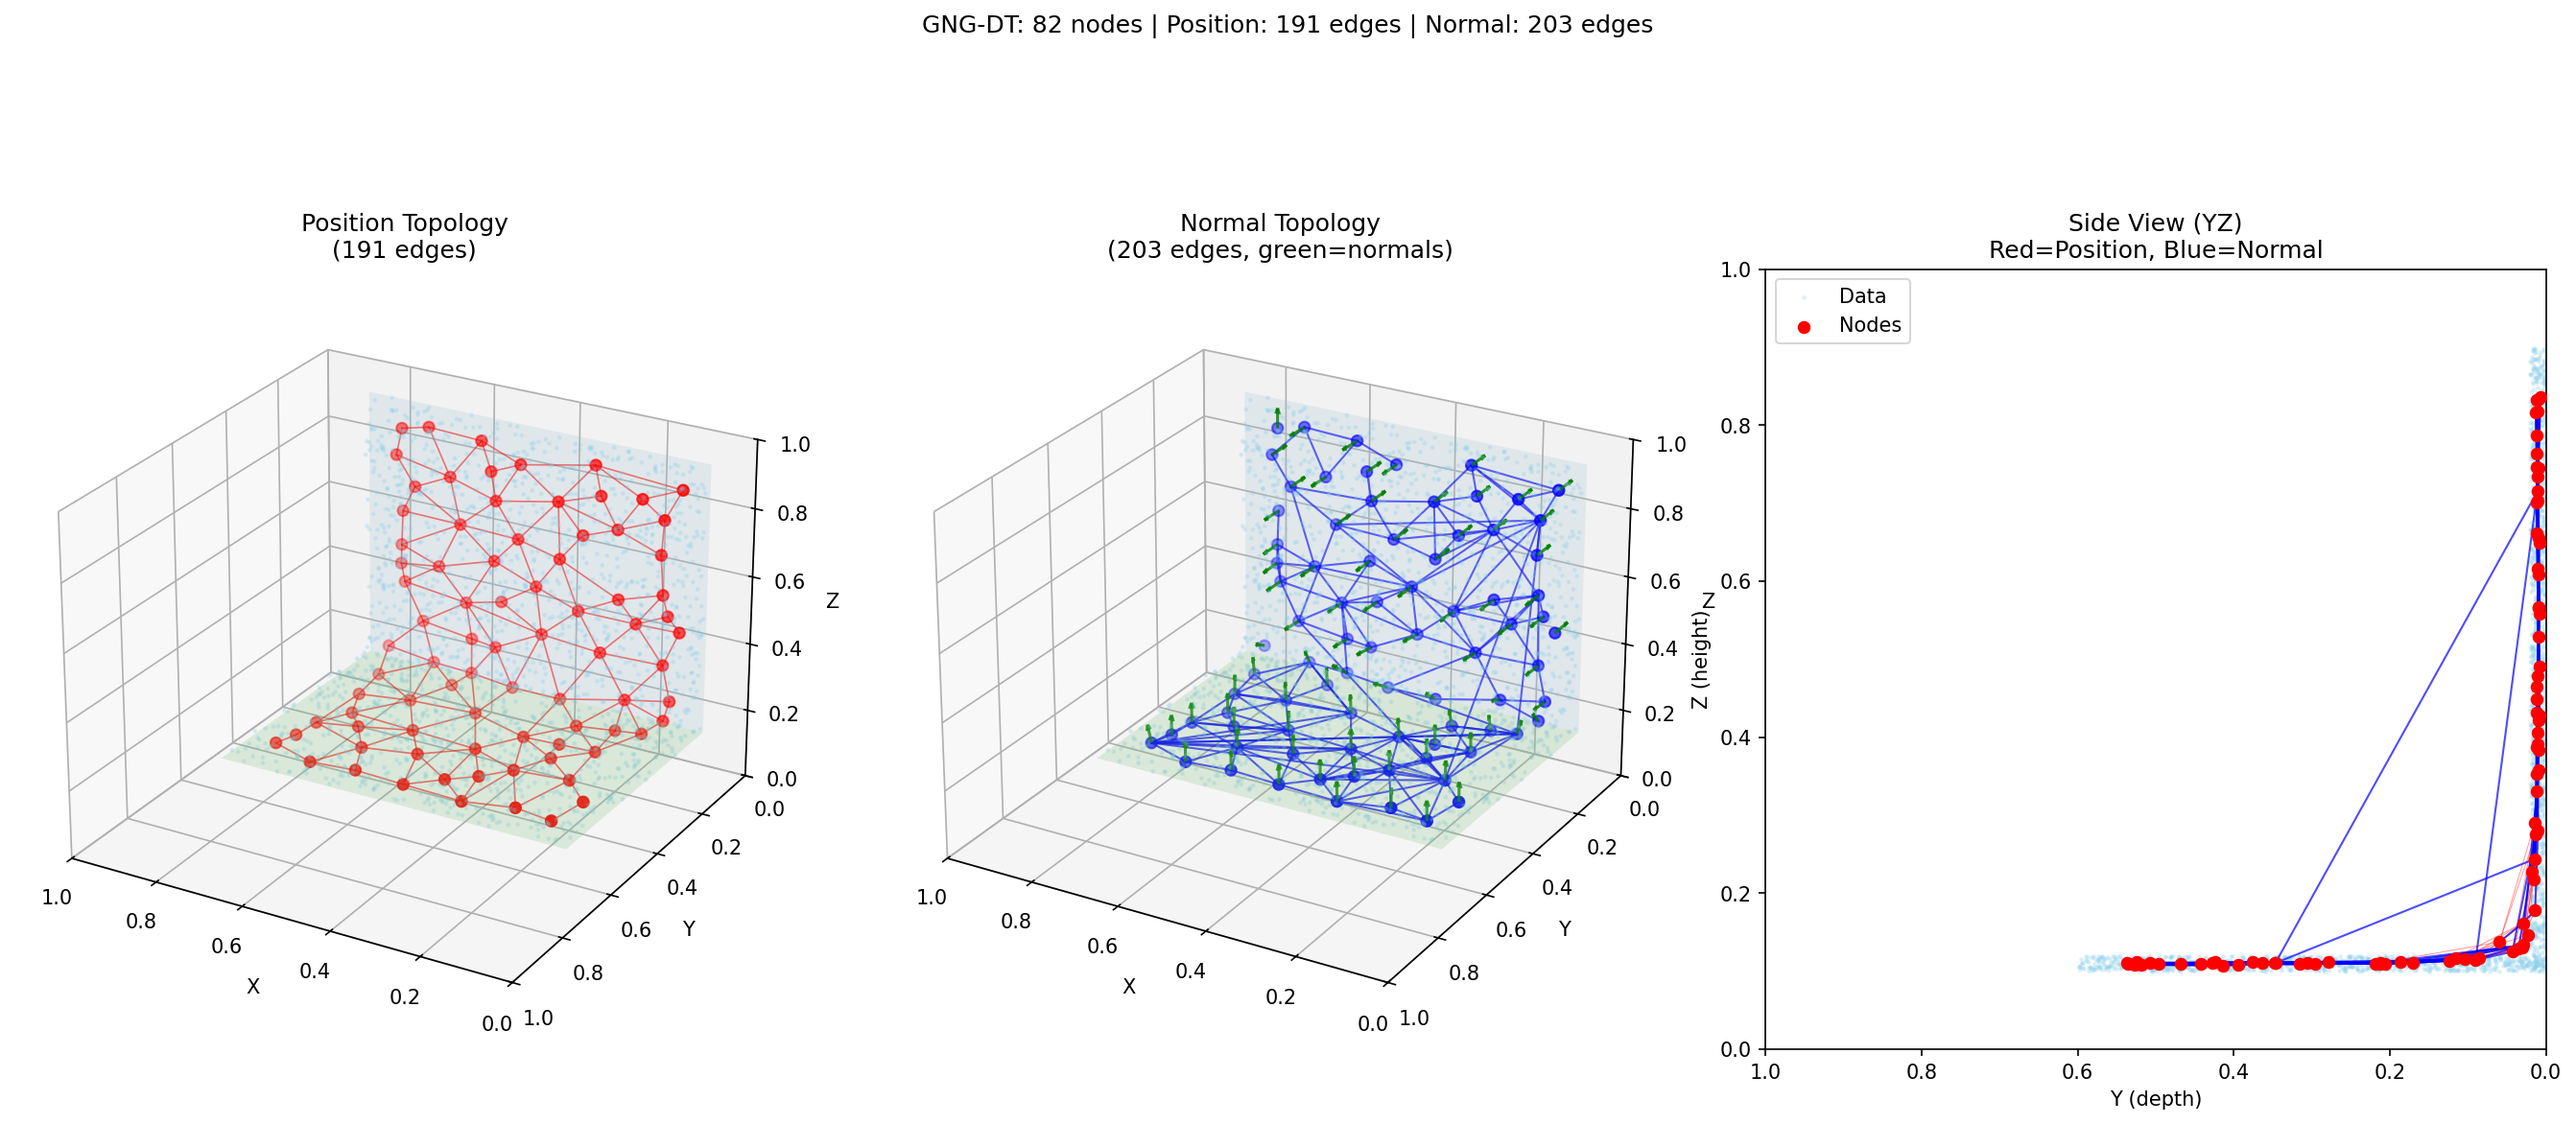
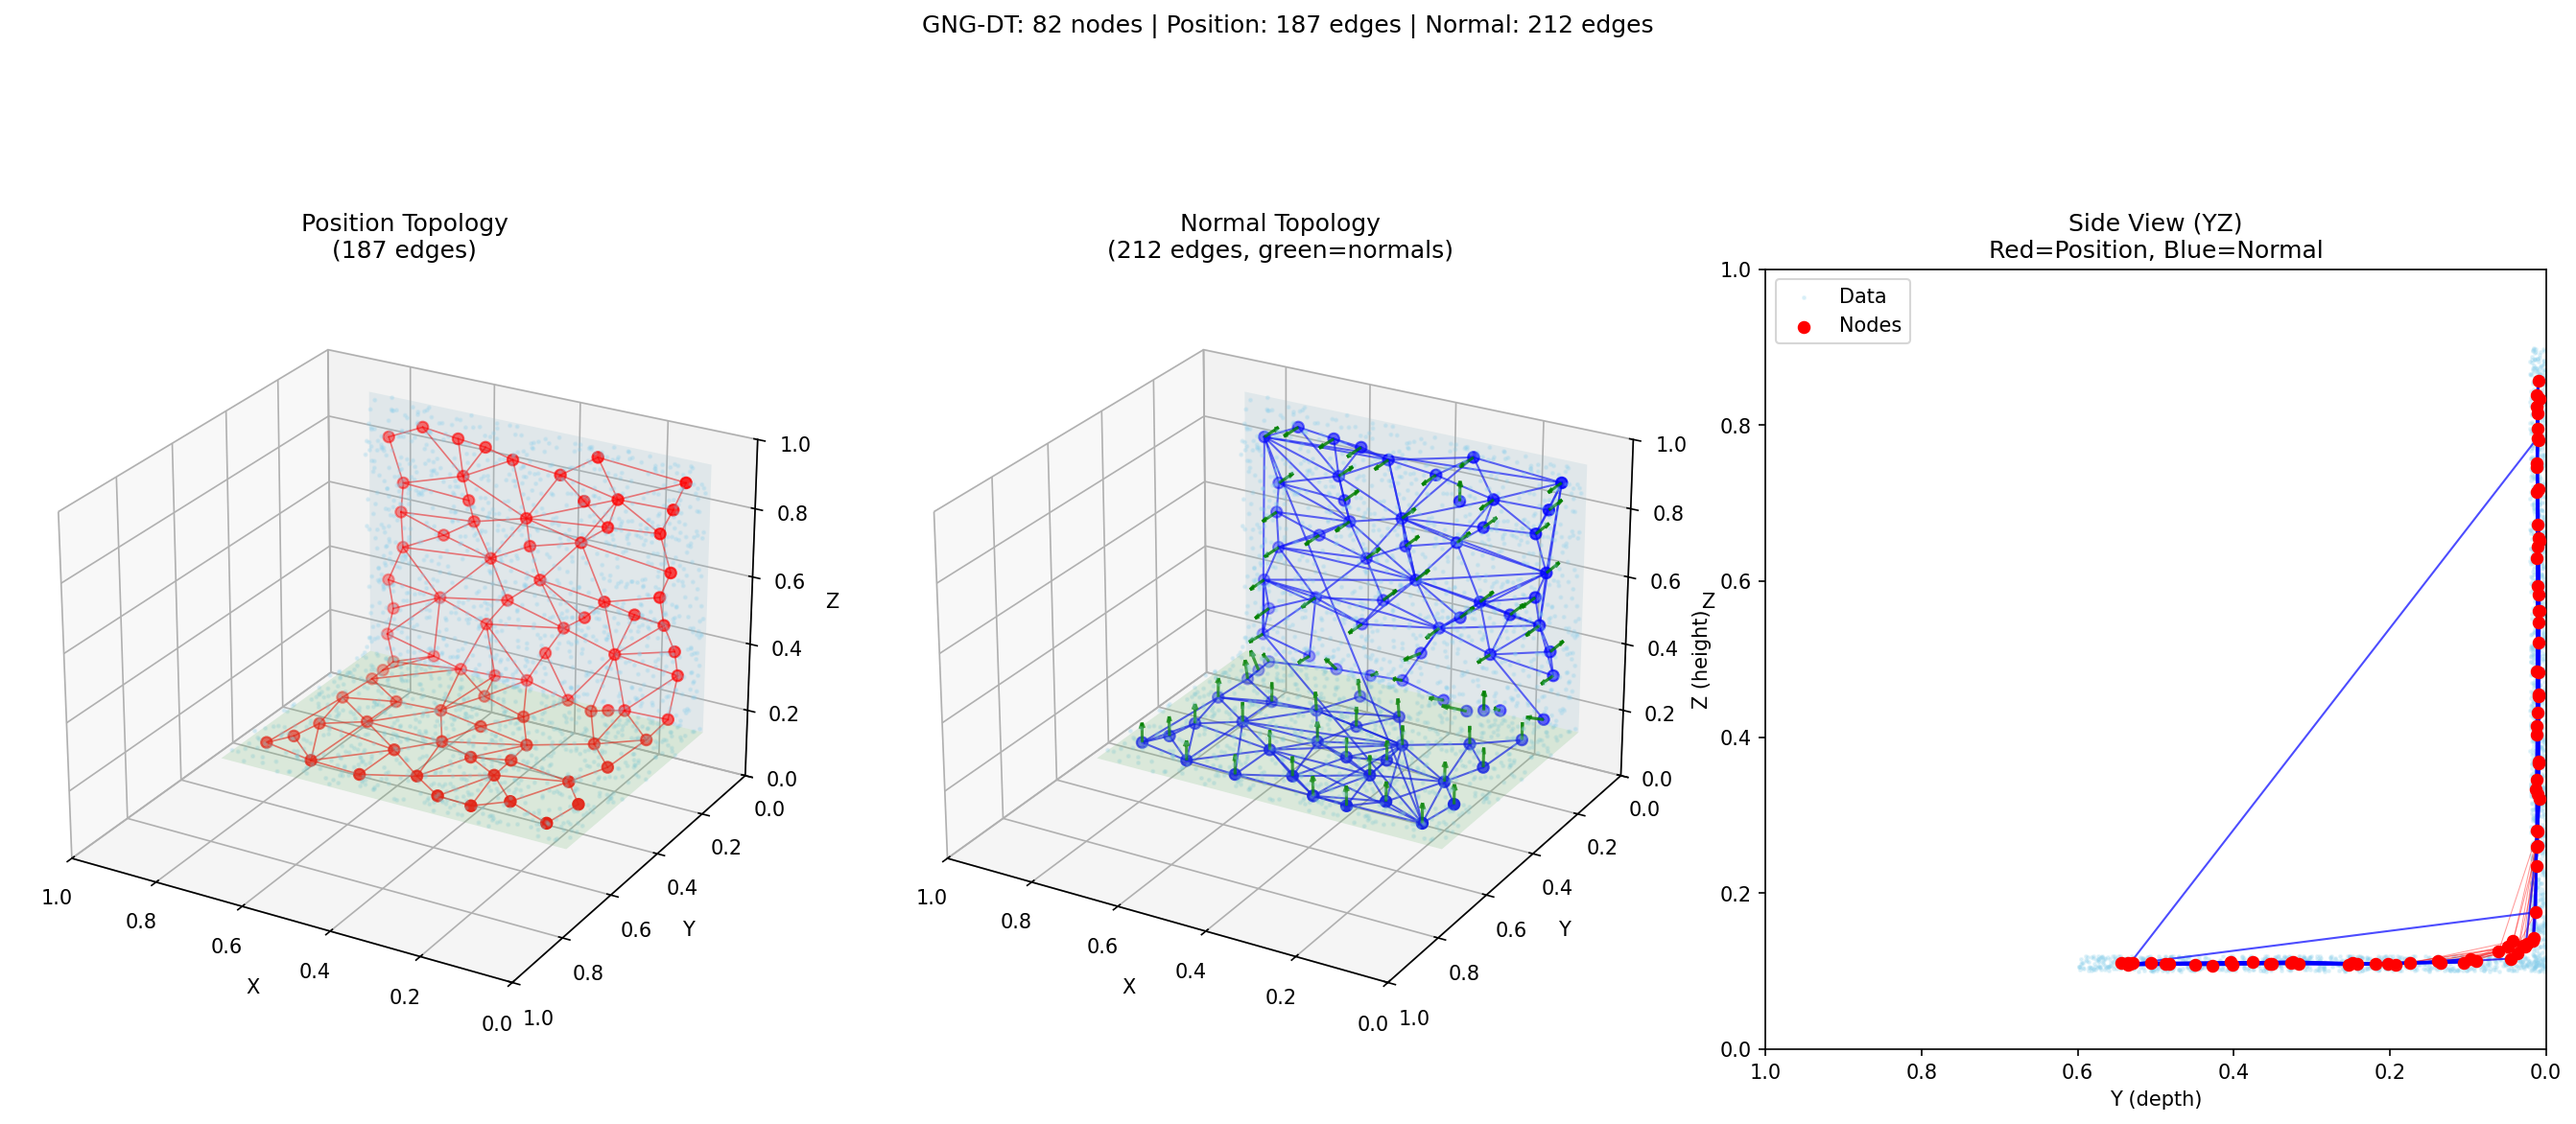
GNG-DT実装をオリジナルコード（toda_gngdt）に準拠するよう修正
修正内容:
- パラメータをオリジナルに合わせて修正:
  - lambda_: 100 → 200 (ramda = 200)
  - eps_b: 0.08 → 0.05 (e1 = 0.05)
  - eps_n: 0.008 → 0.0005 (e2 = 0.0005)
  - max_age: 100 → 88 (MAX_AGE = 88)
  - tau_color: 10.0 → 0.05 (cthv = 0.05)
  - tau_normal: 0.98 → 0.998 (nthv = 0.998)

- 法線エッジ判定を修正:
  - dot_product > tau_normal → |dot_product| > tau_normal
  - オリジナルはfabs()で絶対値を取る（法線の向きが逆でも類似と判定）

- REFERENCE.mdにオリジナルコードのパラメータ情報を追加

参照: references/original_code/toda_gngdt/gng_livox/src/gng.c

https://claude.ai/code/session_01QzArh1DbyZNaoXsmxVVzqW

diff --git a/algorithms/gng_dt/python/model.py b/algorithms/gng_dt/python/model.py
@@ -45,15 +45,15 @@ class GNGDTParams:
     """
 
     max_nodes: int = 100
-    lambda_: int = 100
-    eps_b: float = 0.08
-    eps_n: float = 0.008
+    lambda_: int = 200  # Original: ramda = 200
+    eps_b: float = 0.05  # Original: e1 = 0.05
+    eps_n: float = 0.0005  # Original: e2 = 0.0005
     alpha: float = 0.5
     beta: float = 0.005
-    max_age: int = 100
+    max_age: int = 88  # Original: MAX_AGE = 88
     # GNG-DT specific parameters
-    tau_color: float = 10.0  # Color threshold (Euclidean distance)
-    tau_normal: float = 0.98  # Normal similarity (dot product > 0.98 ≈ cos(11°))
+    tau_color: float = 0.05  # Original: cthv = 0.05 (Euclidean distance)
+    tau_normal: float = 0.998  # Original: nthv = 0.998 (|dot product| > 0.998)
     pca_min_neighbors: int = 3  # Minimum neighbors for PCA
 
 
@@ -252,8 +252,9 @@ class GrowingNeuralGasDT:
             self.edges_color[node1, node2] = 0
             self.edges_color[node2, node1] = 0
 
-        # Normal edge: connected if normal dot product > tau_normal
-        dot_product = np.dot(n1.normal, n2.normal)
+        # Normal edge: connected if |dot product| > tau_normal
+        # Original uses fabs() to handle normals pointing in opposite directions
+        dot_product = np.abs(np.dot(n1.normal, n2.normal))
         if dot_product > p.tau_normal:
             self.edges_normal[node1, node2] = 1
             self.edges_normal[node2, node1] = 1

diff --git a/experiments/3d_pointcloud/test_gngdt_floor_wall.py b/experiments/3d_pointcloud/test_gngdt_floor_wall.py
@@ -162,16 +162,18 @@ def run_experiment(
     points = sample_floor_and_wall(n_samples=n_samples, seed=seed)
     print(f"Sampled {len(points)} points")
 
-    # Setup GNG-DT with parameters tuned for 3D and normal detection
+    # Setup GNG-DT with parameters based on original code
+    # Original uses: e1=0.05, e2=0.0005, ramda=200, MAX_AGE=88, nthv=0.998
+    # We use slightly relaxed parameters for faster convergence in this test
     params = GNGDTParams(
         max_nodes=150,  # More nodes for 3D surfaces
-        lambda_=100,  # Node insertion interval
-        eps_b=0.1,  # Winner learning rate
-        eps_n=0.01,  # Neighbor learning rate
+        lambda_=100,  # Node insertion interval (faster than original's 200)
+        eps_b=0.05,  # Winner learning rate (original: 0.05)
+        eps_n=0.0005,  # Neighbor learning rate (original: 0.0005)
         alpha=0.5,  # Error decay on split
         beta=0.005,  # Global error decay
-        max_age=100,  # Maximum edge age
-        tau_normal=0.90,  # Normal similarity threshold (cos(25°) ≈ 0.90)
+        max_age=88,  # Maximum edge age (original: 88)
+        tau_normal=0.95,  # Normal similarity threshold (|dot| > 0.95, ≈ cos(18°))
         pca_min_neighbors=3,  # Minimum neighbors for PCA
     )
     gng = GrowingNeuralGasDT(params=params, seed=seed)
